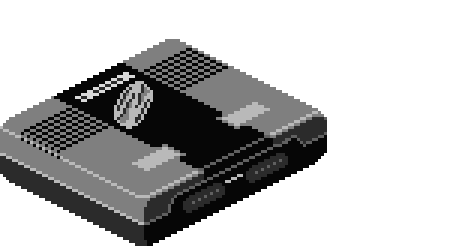
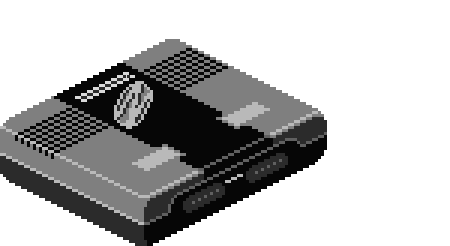
Updated Credits, refined system images for Uzebox and VSmile

diff --git a/CREDITS.md b/CREDITS.md
@@ -28,7 +28,7 @@ fonts. Several latin glyphs have been modified specifically for this theme. The 
 
 - **[agg23](https://github.com/agg23/fpga-gameandwatch/tree/master):** Nintendo Pokémon Mini, Nintendo Game and Watch (LCD Games).
 
-- **Sean Fletcher**: Library, Last Played, Favorites, Completed, Collections, Crossy Road (Android Games), Folder, Apple TV Remote (Kodi), Arduboy, Panic Playdate, Pico-8, HTC Dream (Android), Nintendo 64 Disk Drive, Nintendo Gamecube, Nintendo Wii, Nintendo 3DS, Nintendo Wii U, Nintendo Switch Lite, Sega Dreamcast, Valve Steam Deck, Valve Steam Machine, Sony Playstation 2, Sony Platstation 3, Sony Playstation Vita, Sony Playstation 4, Microsoft Xbox, Microsoft Xbox 360, Microsoft Xbox One, 8bitdo Arcade Stick (Various Arcade systems), Palm Pilot, Tiger Game.com.
+- **Sean Fletcher**: Library, Last Played, Favorites, Completed, Collections, Crossy Road (Android Games), Folder, Apple TV Remote (Kodi), Arduboy, Panic Playdate, Pico-8, HTC Dream (Android), Nintendo 64 Disk Drive, Nintendo Gamecube, Nintendo Wii, Nintendo 3DS, Nintendo Wii U, Nintendo Switch Lite, Sega Dreamcast, Valve Steam Deck, Valve Steam Machine, Sony Playstation 2, Sony Platstation 3, Sony Playstation Vita, Sony Playstation 4, Microsoft Xbox, Microsoft Xbox 360, Microsoft Xbox One, 8bitdo Arcade Stick (Various Arcade systems), Palm Pilot, Tiger Game.com, Uzebox, Othello Multivision, VTech V.Smile, LowRes NX, Coleco Adam, Atari XE, Vicron 32, Generic Nokia Phone (J2ME).
 
 System images created by Sean Fletcher may be downsampled to 150x82 for their original dimensions, and used freely.
 
